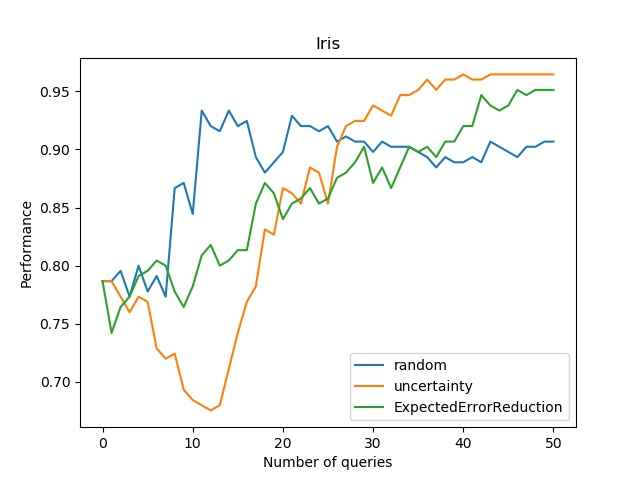
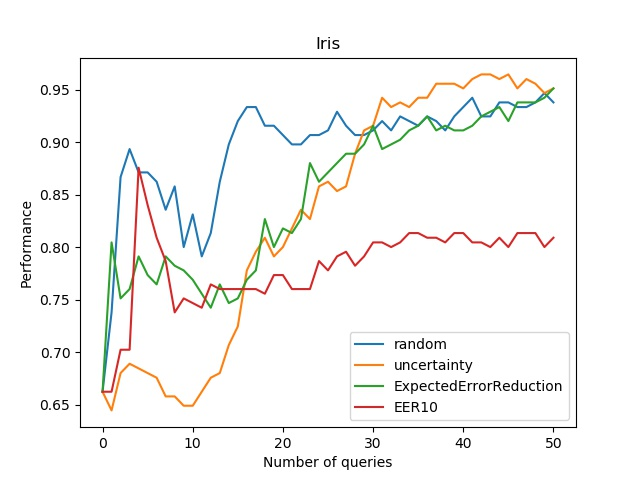
''

diff --git a/test_sys.py b/test_sys.py
@@ -27,6 +27,7 @@ stopping_criterion = acebox.stopping_criterion('num_of_queries', 50)
 randomStrategy = QueryRandom()
 uncertainStrategy = QueryInstanceUncertainty(X, y)
 EER = QureyExpectedErrorReduction(X, y)
+EER10 = QureyExpectedErrorReduction(X, y, method='zero_one_loss')
 
 random_result = []
 for round in range(split_count):
@@ -121,10 +122,41 @@ for round in range(split_count):
     stopping_criterion.reset()
     EER_result.append(copy.deepcopy(saver))
 
+EER10_result = []
+for round in range(split_count):
+    train_idx, test_idx, Lind, Uind = acebox.get_split(round)
+    saver = acebox.StateIO(round)
+
+    # calc the initial point
+    model.fit(X=X[Lind.index, :], y=y[Lind.index])
+    pred = model.predict(X[test_idx, :])
+    accuracy = sum(pred == y[test_idx]) / len(test_idx)
+
+    saver.set_initial_point(accuracy)
+    while not stopping_criterion.is_stop():
+        select_ind = EER10.select(Lind, Uind, model=model)
+        Lind.update(select_ind)
+        Uind.difference_update(select_ind)
+
+        # update model and calc performance
+        model.fit(X=X[Lind.index, :], y=y[Lind.index])
+        pred = model.predict(X[test_idx, :])
+        accuracy = sum(pred == y[test_idx]) / len(test_idx)
+
+        # save intermediate result
+        st = State(select_index=select_ind, performance=accuracy)
+        saver.add_state(st)
+        saver.save()
+
+        # update stopping_criteria
+        stopping_criterion.update_information(saver)
+    stopping_criterion.reset()
+    EER10_result.append(copy.deepcopy(saver))
 
 analyser = acebox.experiment_analyser()
 analyser.add_method(random_result, 'random')
 analyser.add_method(uncertainty_result, 'uncertainty')
 analyser.add_method(EER_result, 'ExpectedErrorReduction')
+analyser.add_method(EER10_result, 'EER10')
 print(analyser)
 analyser.simple_plot(title='Iris')
